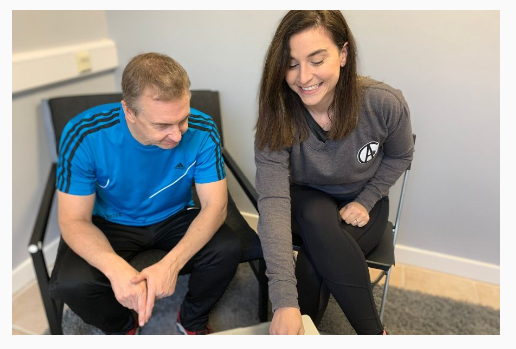
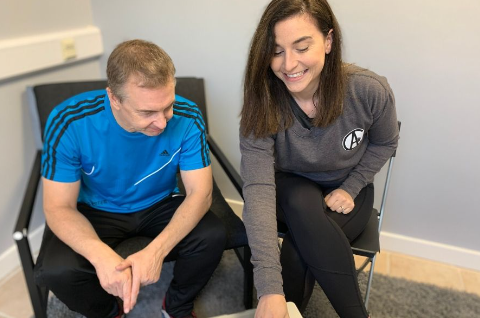
Fixed images for second and fifth sections

diff --git a/src/components/Secondsection.jsx b/src/components/Secondsection.jsx
@@ -1,38 +1,75 @@
 import React from 'react';
-import nickJpg from '../image.png'; // Adjust the relative path if needed
+import nickJpg from '../image.jpg'; // Adjust the relative path if needed
 import nick1Jpg from '../new1.png'; // Adjust the relative path if needed
 import nick2Jpg from '../new2.png'; // Adjust the relative path if needed
 
 const SecondSection = () => {
   return (
-    <div className="bg-black py-12 text-white ">
+    <div className="bg-black py-12 text-white font-semibold ">
       <div className="max-w-7xl mx-auto px-4 sm:px-6 lg:px-8">
         <div className="lg:text-center mb-6">
           <h2 className="text-base text-custom-gold font-semibold tracking-wide uppercase">What We Do</h2>
-          <p className="mt-2 text-3xl leading-8 font-extrabold tracking-tight text-custom-gold sm:text-4xl">
+          <p className="mt-2 text-3xl leading-8 font-semibold  tracking-tight text-custom-gold sm:text-4xl">
             A better way to spend money
           </p>
           <p className="mt-4 max-w-2xl text-xl text-gray-300 lg:mx-auto pb-10">
             Health is wealth, spend your money on becoming the best you!
           </p>
         </div>
-        <div className="mt-1 bg-gray-900 rounded-md p-5">
-          <div className="flex flex-wrap -mx-4">
-            <div className="w-full md:w-1/2 px-4 mb-10 md:mb-0">
-              <img src={nickJpg} alt="A man lifting weights" className="w-full max-w-xs rounded-lg shadow-lg" />
+        <div className="mt-1 bg-gray-900 rounded-md p-5 mb-5">
+    <div className="flex flex-wrap -mx-4">
+        <div className="w-full md:w-1/2 px-4 mb-10 md:mb-0 flex items-center">
+            <img src={nickJpg} alt="A man lifting weights" className="w-full max-w-md rounded-lg shadow-lg border-4 border-custom-gold" />
+        </div>
+        <div className="w-full md:w-1/2 px-4">
+            <div className="mb-6">
+                <h3 className="text-lg leading-6 font-medium text-custom-gold">Master Your Form and Technique</h3>
+                <p className="mt-2 text-base text-gray-300 ">
+                    Enhance your fitness journey with expert guidance on form and technique. 
+                    As your personal trainer, we offer personalized sessions tailored to improve your 
+                    movement efficiency and prevent injuries. By focusing on the right techniques, we 
+                    ensure that every exercise is performed safely and effectively.
+                </p>
             </div>
+            <div className="mb-6">
+                <h3 className="text-lg leading-6 font-medium text-custom-gold">Optimize Recovery and Performance</h3>
+                <p className="mt-2 text-base text-gray-300">
+                    Whether you're recovering from an injury or aiming to optimize your performance, rehabilitation work is crucial. Let's work together to tailor a recovery plan that aligns with your health and fitness goals, ensuring you can return to peak condition safely and sustainably.
+                </p>
+            </div>
+            <div className="flex justify-center">
+                {/* Possible interaction element here */}
+            </div>
+        </div>
+    </div>
+</div>
+
+
+
+        <div className="mt-1 bg-gray-900 rounded-md p-5 mb-5">
+          <div className="flex flex-wrap -mx-4">
+          <div className="w-full md:w-1/2 px-4 mb-10 md:mb-0 flex items-center">
+            <img src={nick1Jpg} alt="A man lifting weights" className="w-full max-w-md rounded-lg shadow-lg border-4 border-custom-gold" />
+        </div>
+
             <div className="w-full md:w-1/2 px-4">
               <div className="mb-6">
-                <h3 className="text-lg leading-6 font-medium text-white">Small Group Personal Training</h3>
+                <h3 className="text-lg leading-6 font-medium text-custom-gold">Unlock your full potential with tailored nutrition guidance</h3>
                 <p className="mt-2 text-base text-gray-300">
-                  Our Small Group Personal Training is unlike anything you'll have experienced before. In micro training
-                  groups of just 6:1, all your workouts are customised for you...
+                Unlock your full potential with tailored nutrition guidance! At NPT,
+                we're here not just to motivate your workouts, but to empower your eating habits. 
+                Let's transform your body and mind with a diet that complements your fitness goals. 
+                Together, we'll ensure that you're nourished and ready to conquer any challenge!
                 </p>
               </div>
               <div className="mb-6">
-                <h3 className="text-lg leading-6 font-medium text-white">One-on-One Attention</h3>
+                <h3 className="text-lg leading-6 font-medium text-custom-gold">Personalized nutrition plans </h3>
                 <p className="mt-2 text-base text-gray-300">
-                  The balance of the motivational group environment, 1:1 attention, and your own personal nutrition...
+                Understanding that every body is unique, 
+                We offer customized dietary strategies that align with 
+                your specific health and fitness objectives. Let's optimize 
+                your performance and recovery by integrating wholesome, balanced
+                 meals into your daily routine. Start fueling your success today!
                 </p>
               </div>
               <div className="flex justify-center">
@@ -42,67 +79,33 @@ const SecondSection = () => {
           </div>
         </div>
 
-        <div className="max-w-7xl mx-auto px-4 sm:px-6 lg:px-8">
-          <div className="lg:text-center mb-6">
-          </div>
-          <div className="mt-5 bg-gray-900 rounded-md p-5">
-            <div className="flex flex-wrap -mx-4">
-              <div className="w-full md:w-1/2 px-4">
-                <img src={nick1Jpg} alt="A group training session" className="w-full max-w-xs rounded-lg shadow-lg" />
+        <div className="mt-1 bg-gray-900 rounded-md p-5">
+          <div className="flex flex-wrap -mx-4">
+          <div className="w-full md:w-1/2 px-4 mb-10 md:mb-0 flex items-center">
+            <img src={nick2Jpg} alt="A man lifting weights" className="w-full max-w-md rounded-lg shadow-lg border-4 border-custom-gold" />
+            </div>
+            <div className="w-full md:w-1/2 px-4">
+              <div className="mb-6">
+                <h3 className="text-lg leading-6 font-medium text-custom-gold">Small Group Personal Training</h3>
+                <p className="mt-2 text-base text-gray-300">
+                  Our Small Group Personal Training is unlike anything you'll have experienced before. In micro training
+                  groups of just 6:1, all your workouts are customised for you...
+                </p>
               </div>
-              <div className="w-full md:w-1/2 px-4">
-                <div className="mb-6">
-                  <h3 className="text-lg leading-6 font-medium text-white">Small Group Personal Training</h3>
-                  <p className="mt-2 text-base text-gray-300">
-                    Our Small Group Personal Training is unlike anything you'll have experienced before. In micro training
-                    groups of just 6:1, all your workouts are customised for you...
-                  </p>
-                </div>
-                <div className="mb-6">
-                  <h3 className="text-lg leading-6 font-medium text-white">One-on-One Attention</h3>
-                  <p className="mt-2 text-base text-gray-300">
-                    The balance of the motivational group environment, 1:1 attention, and your own personal nutrition...
-                  </p>
-                </div>
-                <div className="flex justify-center">
-                  {/* Possible interaction element here */}
-                </div>
+              <div className="mb-6">
+                <h3 className="text-lg leading-6 font-medium text-custom-gold">Socialize with other like minded people</h3>
+                <p className="mt-2 text-base text-gray-300">
+                Group training goes beyond just exercise; it's a chance to connect and meet new friends!
+                </p>
+              </div>
+              <div className="flex justify-center">
+                {/* Possible interaction element here */}
               </div>
             </div>
           </div>
         </div>
-
-        <div className="max-w-7xl mx-auto px-4 sm:px-6 lg:px-8">
-          <div className="lg:text-center mb-6">
-          </div>
-          <div className="mt-5 bg-gray-900 rounded-md p-5">
-            <div className="flex flex-wrap -mx-4">
-              <div className="w-full md:w-1/2 px-4">
-                <img src={nick2Jpg} alt="Personal trainer assisting client" className="w-full max-w-xs rounded-lg shadow-lg" />
-              </div>
-              <div className="w-full md:w-1/2 px-4">
-                <div className="mb-6">
-                  <h3 className="text-lg leading-6 font-medium text-white">Small Group Personal Training</h3>
-                  <p className="mt-2 text-base text-gray-300">
-                    Our Small Group Personal Training is unlike anything you'll have experienced before. In micro training
-                    groups of just 6:1, all your workouts are customised for you...
-                  </p>
-                </div>
-                <div className="mb-6">
-                  <h3 className="text-lg leading-6 font-medium text-white">One-on-One Attention</h3>
-                  <p className="mt-2 text-base text-gray-300">
-                    The balance of the motivational group environment, 1:1 attention, and your own personal nutrition...
-                  </p>
-                </div>
-                <div className="flex justify-center">
-                  {/* Possible interaction element here */}
-                </div>
-              </div>
-            </div>
-          </div>
         </div>
-    </div>
-    </div>
+        </div>
   );
 };
 

diff --git a/src/components/Fifthsection.jsx b/src/components/Fifthsection.jsx
@@ -1,39 +1,45 @@
 import React, { useState } from 'react';
+import fit1 from '../fit1.png';
+import fit2 from '../fit2.png';
+import fit3 from '../fit3.png';
+import fit4 from '../fit4.png';
+import fit5 from '../fit5.png';
+import fit6 from '../fit6.png';
 
 // Array of testimonials
 const testimonials = [
   {
-    image: "/path_to_dave_image.jpg",
+    image: fit1,
     text: "Working from home meant my body felt stiffer, my energy plummeted and my motivation was non-existent. The Armoury has completely turned that around! I've lost weight, gained strength and feel like a healthier, happier version of myself!",
-    name: "Dave Wood",
+    name: "Sarah Wood",
     rating: 5,
   },
   {
-    image: "/path_to_kyla_image.jpg",
+    image: fit2,
     text: "I love our training and never get bored, it helps me balance my busy life as a mum and gives me the time to focus on myself. The best decision I ever made for my health was booking my first session at The Armoury!",
     name: "Kyla Clarke",
     rating: 4,
   },
   {
-    image: "/path_to_alex_image.jpg",
+    image: fit3,
     text: "It's the first time I have seen results in years. They really take time to understand you as an individual both from a training and nutrition perspective!",
     name: "Alex Dovey",
     rating: 5,
   },
   {
-    image: "/path_to_sam_image.jpg",
+    image: fit4,
     text: "Amazing results after joining The Armoury, definitely a life changer with their personal touch and custom plans!",
     name: "Sam Rios",
     rating: 5,
   },
   {
-    image: "/path_to_lily_image.jpg",
+    image: fit5,
     text: "Finding the right fitness routine was tough, but The Armoury's approach made it much easier and more fun than I thought possible!",
     name: "Lily Tran",
     rating: 4,
   },
   {
-    image: "/path_to_mark_image.jpg",
+    image: fit6,
     text: "Professional, attentive, and results-driven. The Armoury helped me reach my fitness goals with ease!",
     name: "Mark Jensen",
     rating: 5,
@@ -41,15 +47,15 @@ const testimonials = [
 ];
 
 const StarRating = ({ rating }) => (
-  <div className="flex justify-center mt-1">
+  <div className="flex justify-center mt-2 mb-2 space-x-1 overflow-visible"> {/* Ensuring overflow is visible and adjusting margins */}
     {Array.from({ length: 5 }, (_, index) => (
       <svg
         key={index}
-        className={`h-5 w-5 ${index < rating ? 'text-custom-gold' : 'text-gray-400'}`}
+        className={`h-8 w-8 ${index < rating ? 'text-custom-gold' : 'text-gray-400'}`}
         fill="currentColor"
-        viewBox="0 0 20 20"
+        viewBox="0 0 24 24" // Adjusted view box to ensure the stars are fully contained
       >
-        <path d="M9.049 2.927c.396-.956 1.705-.956 2.101 0l1.868 4.516c.177.428.51.725.892.79l4.998.726c.993.144 1.39 1.367.671 2.065l-3.616 3.523c-.334.325-.487.794-.408 1.255l.853 4.973c.215 1.256-1.106 2.212-2.248 1.62l-4.465-2.348c-.426-.224-.938-.224-1.364 0l-4.465 2.348c-1.142.592-2.463-.364-2.248-1.62l.853-4.973c.079-.461-.074-.93-.408-1.255L.689 10.024c-.719-.698-.322-1.921.671-2.065l4.998-.726c.382-.065.715-.362.892-.79l1.868-4.516z" />
+        <path d="M12 17.27L18.18 21l-1.64-7.03L22 9.24h-7.19L12 2l-2.81 7.24H2l5.46 4.73L5.82 21z" />
       </svg>
     ))}
   </div>
@@ -65,15 +71,15 @@ const FifthSection = () => {
 
   return (
     <div className="bg-black text-white p-8">
-      <div className="max-w-6xl mx-auto">
-        <h2 className="text-3xl font-semibold text-center">THE RESULTS YOU CAN EXPECT</h2>
+      <div className="max-w-7xl mx-auto">
+        <h2 className="text-3xl font-semibold text-center font-sans">THE RESULTS YOU CAN <span className='text-custom-gold'> EXPECT </span></h2>
         <p className="mt-4 text-center">
           The Armoury would be nothing without the men and women that have put their trust in us over the last 10 years...
         </p>
-        <div className="mt-8 grid grid-cols-1 md:grid-cols-2 lg:grid-cols-3 gap-4">
+        <div className="mt-8 grid grid-cols-1 md:grid-cols-2 lg:grid-cols-3 gap-8"> {/* Increased gap for larger images */}
           {testimonials.slice(0, displayCount).map((testimonial, index) => (
-            <div key={index} className="flex flex-col items-center p-4 bg-gray-900 shadow-md rounded-lg">
-              <img className="w-32 h-32 object-cover rounded-full border-2 border-custom-gold" src={testimonial.image} alt="client" />
+            <div key={index} className="flex flex-col items-center p-6 bg-gray-900 shadow-lg rounded-lg"> {/* Adjusted padding and shadow for more emphasis */}
+              <img className="w-64 h-64 object-cover border-4 border-custom-gold rounded-lg " src={testimonial.image} alt="client" /> {/* Further increased image size */}
               <StarRating rating={testimonial.rating} />
               <blockquote className="mt-4 text-center text-sm italic">
                 "{testimonial.text}"
@@ -86,7 +92,7 @@ const FifthSection = () => {
           <div className="text-center mt-8">
             <button
               onClick={handleClick}
-              className="bg-custom-gold text-black px-4 py-2 rounded-md hover:bg-opacity-90 transition duration-300"
+              className="bg-custom-gold text-black px-5 py-3 rounded-md hover:bg-opacity-90 transition duration-300"
             >
               CLICK HERE TO SEE EVEN MORE RESULTS
             </button>

diff --git a/src/components/Sixthsection.jsx b/src/components/Sixthsection.jsx
@@ -5,10 +5,10 @@ const SixthSection = () => {
     <div className="bg-black  py-12">
       <div className="max-w-7xl mx-auto px-4 sm:px-6 lg:px-8 font-sans ">
         <div className="text-center mt-20">
-          <h2 className="text-3xl font-extrabold sm:text-4xl uppercase mb-20 text-white">
+          <h2 className="text-3xl  sm:text-4xl uppercase mb-20 text-white font-semibold ">
             It's time to put yourself <span className="text-custom-gold">first! </span> 
           </h2>
-          <p className="font-white font-sans">
+          <p className="font-white font-semibold  font-sans">
   We specialize in guiding young adults who are ready to elevate their fitness and forge their path to becoming stronger, more resilient individuals.
 </p>
 <p className="mb-4">
